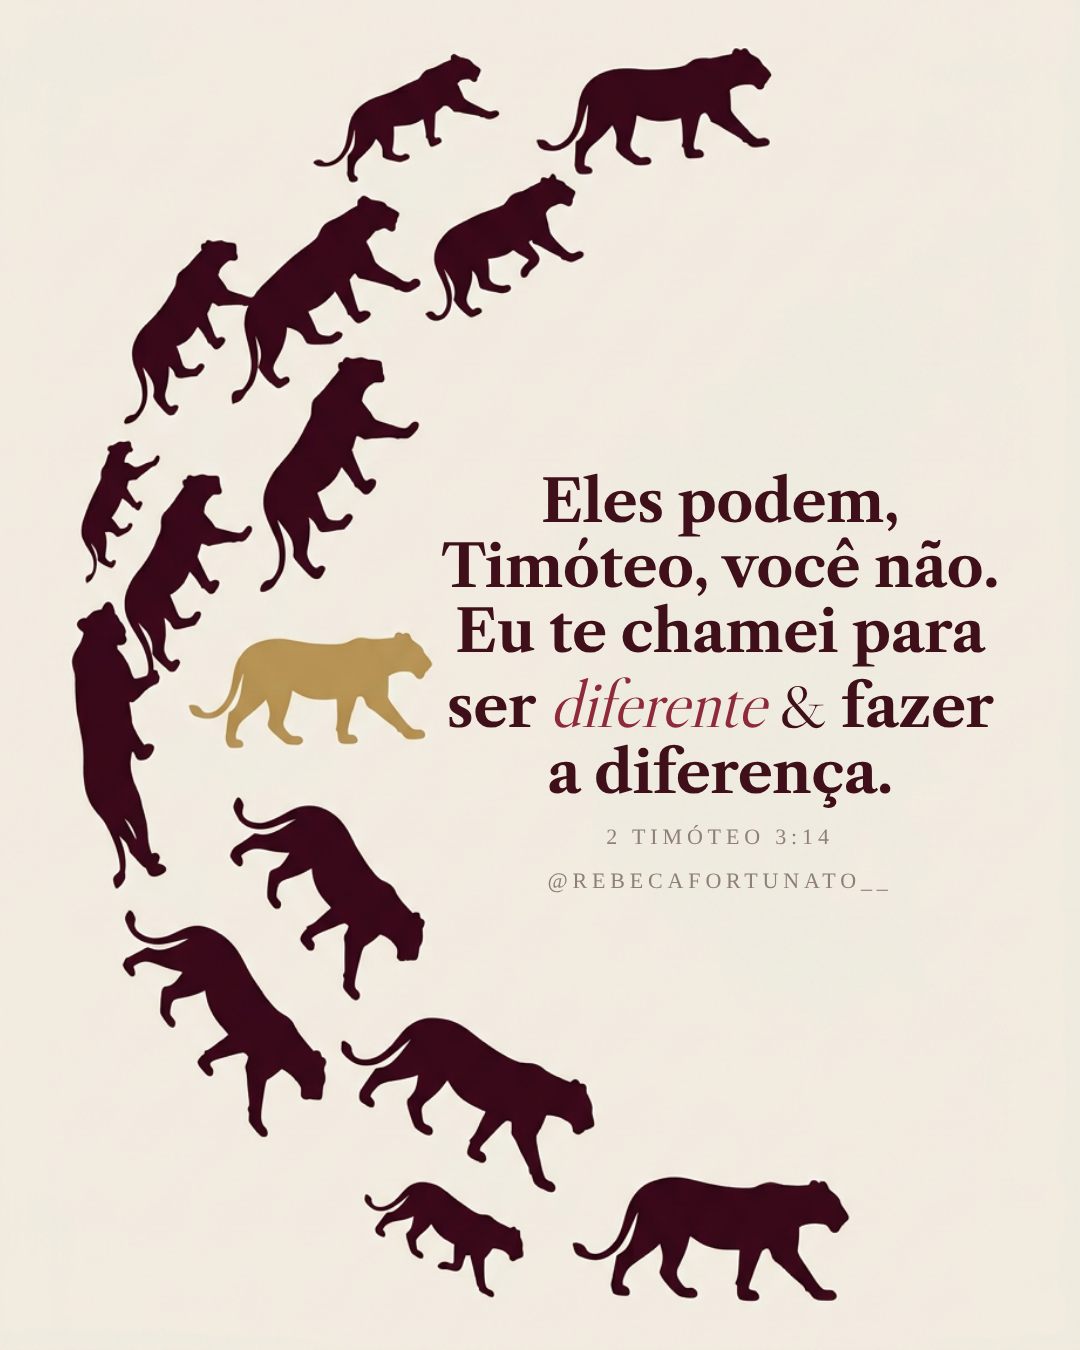
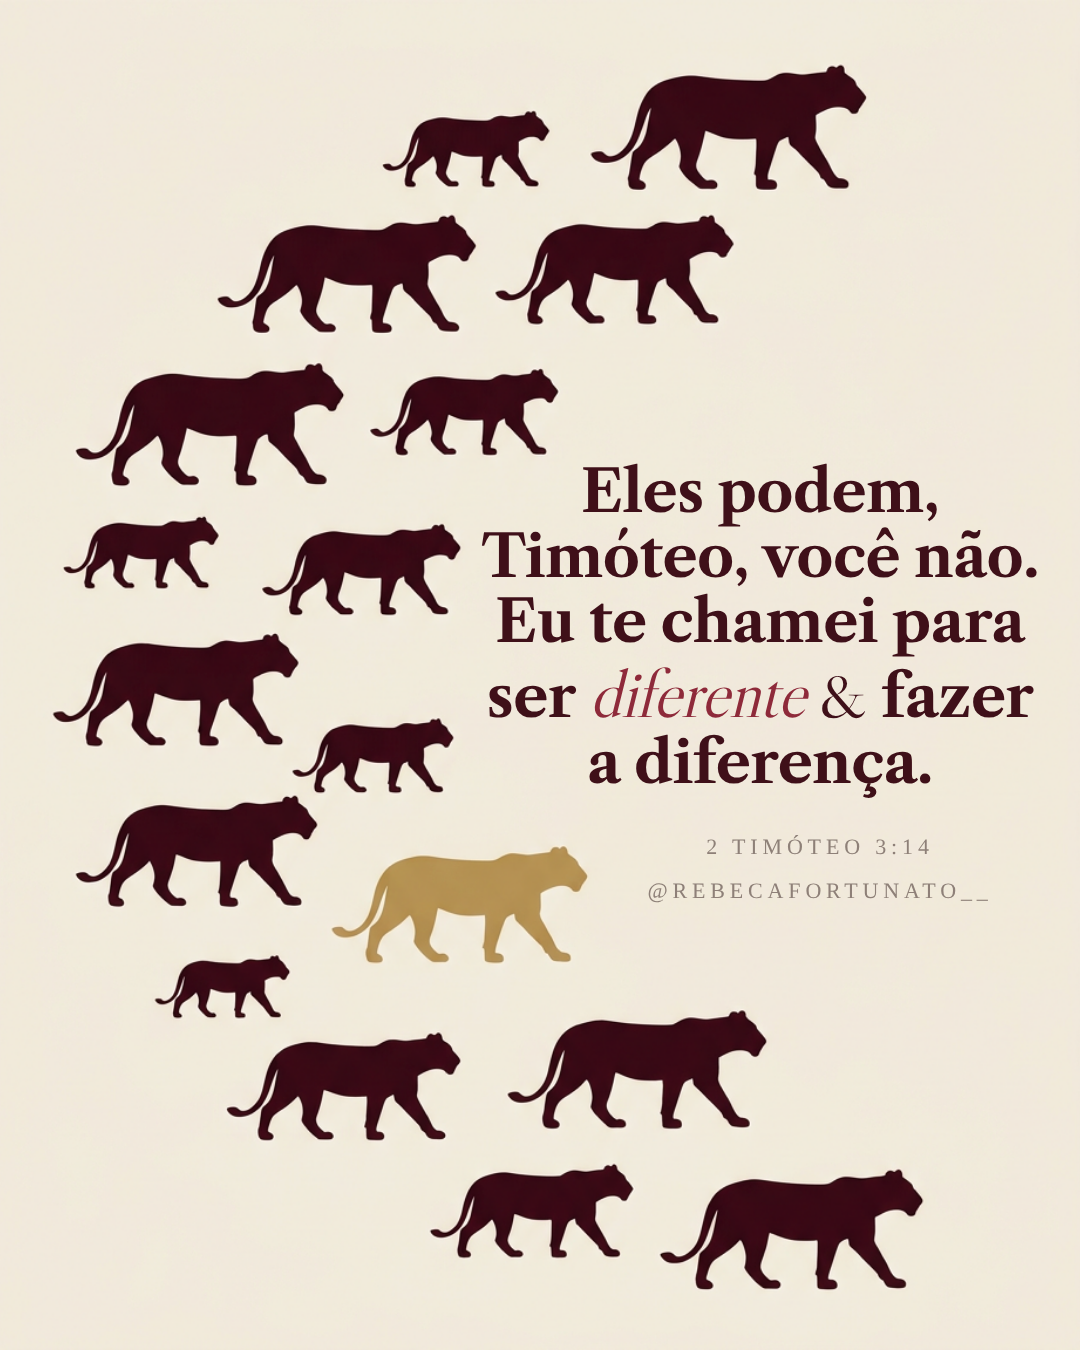
Timóteo: todas na mesma direção, só a dourada contra
Claude-Session: https://claude.ai/code/session_01GVjzB1KzkYMHJxVq5zD7i2

Changed region(s): [[0.0611, 0.0311, 0.9472, 0.9644], [0.7639, 0.1244, 0.7944, 0.1556]]

diff --git a/insta/timoteo.html b/insta/timoteo.html
@@ -4,18 +4,18 @@
 body{margin:0;background:#333}
 .post{width:1080px;height:1350px;position:relative;overflow:hidden;margin:0 0 20px;font-family:var(--serif);background:#F3ECE3}
 .post img.bg{position:absolute;inset:0;width:100%;height:100%;object-fit:cover}
-.t{position:absolute;left:440px;top:470px;width:560px;text-align:center;color:#3F1019;font-family:var(--serif);font-weight:700;font-size:58px;line-height:1.12;letter-spacing:-.01em}
+.t{position:absolute;left:480px;top:460px;width:560px;text-align:center;color:#3F1019;font-family:var(--serif);font-weight:700;font-size:58px;line-height:1.12;letter-spacing:-.01em}
 .t em{font-family:var(--display);font-weight:400;font-style:italic;color:#8E2A3A;font-size:68px}
 .t .amp{font-family:var(--display);font-weight:400}
-.ref{position:absolute;left:440px;top:820px;width:560px;text-align:center;font-family:var(--sans);font-size:22px;letter-spacing:.22em;text-transform:uppercase;color:#8E8078}
+.ref{position:absolute;left:600px;top:830px;width:440px;text-align:center;font-family:var(--sans);font-size:22px;letter-spacing:.22em;text-transform:uppercase;color:#8E8078}
 </style></head><body>
 <div class="post" id="p1">
-  <img class="bg" src="file:///home/user/Rebeca-Infoprduto/insta/gen/leoas.png">
+  <img class="bg" src="file:///home/user/Rebeca-Infoprduto/insta/gen/leoas2.png">
   <div class="t">Eles podem, Timóteo, você não. Eu te chamei para ser <em>diferente</em> <span class="amp">&amp;</span> fazer a diferença.</div>
   <div class="ref">2 Timóteo 3:14<br><span style="display:inline-block;margin-top:10px">@rebecafortunato__</span></div>
 </div>
 <div class="post" id="p2">
-  <img class="bg" src="file:///home/user/Rebeca-Infoprduto/insta/gen/cavalos.png">
+  <img class="bg" src="file:///home/user/Rebeca-Infoprduto/insta/gen/cavalos2.png">
   <div class="t">Eles podem, Timóteo, você não. Eu te chamei para ser <em>diferente</em> <span class="amp">&amp;</span> fazer a diferença.</div>
   <div class="ref">2 Timóteo 3:14<br><span style="display:inline-block;margin-top:10px">@rebecafortunato__</span></div>
 </div>
